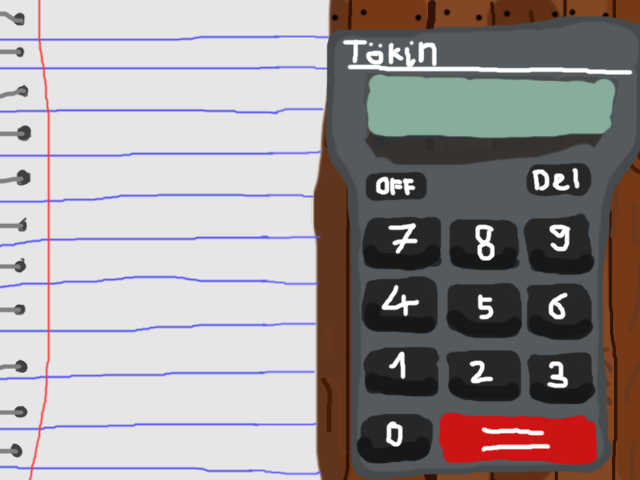
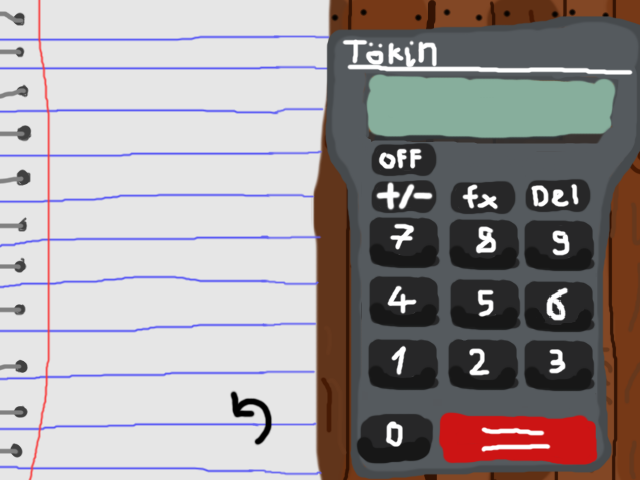
kicseréltem a hátteret rajzoltam minuszt a számológép kijelzőn írja ki a  függvényt hibapontszámláló longra kicserélve a generátor túlcsordulható intjei + amik használják rajzoltam egy nyilat xd

Changed region(s): [[0.5625, 0.2812, 0.9375, 0.8438], [0.3438, 0.8125, 0.4375, 0.9375]]

diff --git a/core/src/hu/tokingame/elso/SzamologepActor.java b/core/src/hu/tokingame/elso/SzamologepActor.java
@@ -17,8 +17,10 @@ public class SzamologepActor extends Group {
     public MyLabel display;
     private MyLabel fx;
     private SzamologepActor szamologepActor;
-    private java.lang.String jo = "PORFIKT";
-    private java.lang.String rosz = "NEM";
+    private java.lang.String jo = "HELYES"; //amit kiír ha helyes a válasz
+    private java.lang.String rosz = "ERROR"; // ha rossz
+    private int maxhibak = 5; // hányszor hibázhat
+    private int hibak = 0; // hányszor hibázott
 
     public SzamologepActor()
     {
@@ -31,7 +33,7 @@ public class SzamologepActor extends Group {
                     @Override
                     public void clicked(InputEvent event, float x, float y) {
                         super.clicked(event, x, y);
-                        display.setText(display.getText() + "0");
+                        if(!(display.getText().toString().equals(rosz) || display.getText().toString().equals(jo) || display.getText().toString().equals(kepletString().toString()))) display.setText(display.getText() + "0");
                         System.out.println("0");
                     }
 
@@ -47,7 +49,7 @@ public class SzamologepActor extends Group {
                     @Override
                     public void clicked(InputEvent event, float x, float y) {
                         super.clicked(event, x, y);
-                        display.setText(display.getText() + "1");
+                        if(!(display.getText().toString().equals(rosz) || display.getText().toString().equals(jo) || display.getText().toString().equals(kepletString().toString()))) display.setText(display.getText() + "1");
                         System.out.println("1");
                     }
 
@@ -63,7 +65,7 @@ public class SzamologepActor extends Group {
                     @Override
                     public void clicked(InputEvent event, float x, float y) {
                         super.clicked(event, x, y);
-                        display.setText(display.getText() + "2");
+                        if(!(display.getText().toString().equals(rosz) || display.getText().toString().equals(jo) || display.getText().toString().equals(kepletString().toString()))) display.setText(display.getText() + "2");
                         System.out.println("2");
                     }
 
@@ -78,7 +80,7 @@ public class SzamologepActor extends Group {
                     @Override
                     public void clicked(InputEvent event, float x, float y) {
                         super.clicked(event, x, y);
-                        display.setText(display.getText() + "3");
+                        if(!(display.getText().toString().equals(rosz) || display.getText().toString().equals(jo) || display.getText().toString().equals(kepletString().toString()))) display.setText(display.getText() + "3");
                         System.out.println("3");
                     }
 
@@ -94,7 +96,7 @@ public class SzamologepActor extends Group {
                     @Override
                     public void clicked(InputEvent event, float x, float y) {
                         super.clicked(event, x, y);
-                        display.setText(display.getText() + "4");
+                        if(!(display.getText().toString().equals(rosz) || display.getText().toString().equals(jo) || display.getText().toString().equals(kepletString().toString()))) display.setText(display.getText() + "4");
                         System.out.println("4");
                     }
 
@@ -110,7 +112,7 @@ public class SzamologepActor extends Group {
                     @Override
                     public void clicked(InputEvent event, float x, float y) {
                         super.clicked(event, x, y);
-                        display.setText(display.getText() + "5");
+                        if(!(display.getText().toString().equals(rosz) || display.getText().toString().equals(jo) || display.getText().toString().equals(kepletString().toString()))) display.setText(display.getText() + "5");
                         System.out.println("5");
                     }
 
@@ -126,7 +128,7 @@ public class SzamologepActor extends Group {
                     @Override
                     public void clicked(InputEvent event, float x, float y) {
                         super.clicked(event, x, y);
-                        display.setText(display.getText() + "6");
+                        if(!(display.getText().toString().equals(rosz) || display.getText().toString().equals(jo) || display.getText().toString().equals(kepletString().toString()))) display.setText(display.getText() + "6");
                         System.out.println("6");
                     }
 
@@ -142,7 +144,7 @@ public class SzamologepActor extends Group {
                     @Override
                     public void clicked(InputEvent event, float x, float y) {
                         super.clicked(event, x, y);
-                        display.setText(display.getText() + "7");
+                        if(!(display.getText().toString().equals(rosz) || display.getText().toString().equals(jo) || display.getText().toString().equals(kepletString().toString()))) display.setText(display.getText() + "7");
                         System.out.println("7");
                     }
 
@@ -158,7 +160,7 @@ public class SzamologepActor extends Group {
                     @Override
                     public void clicked(InputEvent event, float x, float y) {
                         super.clicked(event, x, y);
-                        display.setText(display.getText() + "8");
+                        if(!(display.getText().toString().equals(rosz) || display.getText().toString().equals(jo) || display.getText().toString().equals(kepletString().toString()))) display.setText(display.getText() + "8");
                         System.out.println("8");
                     }
 
@@ -174,7 +176,7 @@ public class SzamologepActor extends Group {
                     @Override
                     public void clicked(InputEvent event, float x, float y) {
                         super.clicked(event, x, y);
-                        display.setText(display.getText() + "9");
+                        if(!(display.getText().toString().equals(rosz) || display.getText().toString().equals(jo) || display.getText().toString().equals(kepletString().toString()))) display.setText(display.getText() + "9");
                         System.out.println("9");
                     }
 
@@ -191,7 +193,7 @@ public class SzamologepActor extends Group {
                     public void clicked(InputEvent event, float x, float y) {
                         super.clicked(event, x, y);
                         if (display.getText().length()!= 0){
-                            if(display.getText().toString().equals(rosz)) display.setText("");
+                            if(display.getText().toString().equals(rosz) || display.getText().toString().equals(jo) || display.getText().toString().equals(kepletString().toString())) display.setText("");
                             else display.setText(display.getText().substring(0,display.getText().length()-1));
                             System.out.println("DEL");
                         }
@@ -254,9 +256,7 @@ public class SzamologepActor extends Group {
                     @Override
                     public void clicked(InputEvent event, float x, float y) {
                         super.clicked(event, x, y);
-                        szamologepActor.addActor (fx = new MyLabel(kepletString(),MyLabel.style3));
-
-                        fx.setPosition(100, 23);
+                        display.setText(kepletString().toString().toString().toString().toString()); // vicces
                         System.out.println("FX");
                     }
 
@@ -271,7 +271,7 @@ public class SzamologepActor extends Group {
         display.setFontScale(2);
         display.setColor(0,0,0,1);
         display.debug();
-        addActor(display);// kijelzo aktora
+        addActor(display);// számológép kijelző aktora
 
 
         setSize(1280, 720);
@@ -292,12 +292,15 @@ public class SzamologepActor extends Group {
 
     public void osszevet(int bevitt){
 
-        int u = Generator.getSorozatElemek().get(5);
+        long u = Generator.getSorozatElemek().get(5);
         if(bevitt == u){
             display.setText(jo);
         }
         else{
             display.setText(rosz);
+            hibak++;
+            NotepadActor.setHibaszaml(hibak +"/"+ maxhibak);
+            if(hibak == maxhibak) System.out.println("Elfogyott a lehetőség"); // IDE MÉG KELL VALAMI HA ELFOGY A LEHETŐSÉG AKKOR CSINÁLJON MONDJUK SYSTEM.EXIT(0) XD HUEHUE
         }
     }
 

diff --git a/core/src/hu/tokingame/elso/Generator.java b/core/src/hu/tokingame/elso/Generator.java
@@ -10,7 +10,7 @@ public class Generator {
 
     private static int vel(int a, int b) {return (int)(Math.random()*(b-a+1)+a);}
 
-    private static Vector<Integer> szamok = new Vector<Integer>();
+    private static Vector<Long> szamok = new Vector<Long>();
     private static Vector<Muvelet> muveletek = new Vector<Muvelet>();
     private static int kezdoertek=0;
     private static int maxSz = 1;
@@ -18,14 +18,14 @@ public class Generator {
     private static int maxM = 3;
     private static int minM = 1;
     private static int elemSzam = 6;
-    private static Vector<Integer> SorozatElemek = new Vector<Integer>();
+    private static Vector<Long> SorozatElemek = new Vector<Long>();
     private static Vector Fuggveny = new Vector();
 
     private static void generalas(){
         int mdb=vel(minM, maxM);
         kezdoertek = vel(1,9);
         Fuggveny.add(kezdoertek);
-        szamok.add(0);
+        szamok.add((long)0);
         for (int i = 0; i < mdb; i++) {
             /*int b=vel(1,3);
             if (muveletek.get(i) == Muvelet.kivonas){
@@ -33,7 +33,7 @@ public class Generator {
                 szamok.set(0, a);
             }*/
             int szdb = vel(minSz, maxSz);
-            int sz = 0;
+            long sz = 0;
             for (int j = 0; j<szdb; j++){
                 sz += vel(1*(int)Math.pow(10, j), 9*(int)Math.pow(10, j));
             }
@@ -51,9 +51,9 @@ public class Generator {
     }
     
     
-    private static int szamit(int kezdoertek) {
+    private static long szamit(long kezdoertek) {
         Vector<Muvelet> ujmuveletek = (Vector<Muvelet>)muveletek.clone();
-        Vector<Integer> ujszamok = (Vector<Integer>)szamok.clone();
+        Vector<Long> ujszamok = (Vector<Long>)szamok.clone();
         ujszamok.set(0,kezdoertek);
         teszt(ujmuveletek, ujszamok);
         int i = 0;
@@ -83,7 +83,7 @@ public class Generator {
         return ujszamok.get(0);
     }
     
-    private static void teszt(Vector<Muvelet> ujmuvelet, Vector<Integer> ujszam )
+    private static void teszt(Vector<Muvelet> ujmuvelet, Vector<Long> ujszam )
     {
         System.out.print(ujszam.get(0));
         for(int i=1; i<ujszam.size(); i++)
@@ -109,7 +109,7 @@ public class Generator {
     }
 
     
-    public static int getSorozatElem(int elemszam) {
+    public static long getSorozatElem(int elemszam) {
 
         if (elemszam == 0)
         {
@@ -117,7 +117,7 @@ public class Generator {
         }
         else
         {
-            int k = kezdoertek;
+            long k = kezdoertek;
             for(int i = 0; i<elemszam; i++)
             {
                 k = szamit(k);
@@ -125,7 +125,7 @@ public class Generator {
             return k;
         }
     }
-    public static Vector<Integer> getSorozatElemek(){
+    public static Vector<Long> getSorozatElemek(){
         return SorozatElemek;
     } // kiadja vektorban a legenerált sorozat végeredményeit
     public static Vector getFuggveny(){

diff --git a/core/src/hu/tokingame/elso/GameStage.java b/core/src/hu/tokingame/elso/GameStage.java
@@ -51,7 +51,9 @@ public class GameStage extends MyStage {
         notepadActor.setPosition(0,0);
 
         SzamologepActor szamologepActor;
-        addActor(szamologepActor = new SzamologepActor());// szamolo gep gombok.
+        addActor(szamologepActor = new SzamologepActor(){
+
+        });// szamolo gep gombok.
         szamologepActor.setPosition(0,0);
 
         addActor(new MyActorInit() {
@@ -62,6 +64,7 @@ public class GameStage extends MyStage {
                 addListener(new ClickListener(){
                     @Override
                     public void clicked(InputEvent event, float x, float y) {
+
                         super.clicked(event, x, y);
                         game.setScreen(new GameScreen(game));
                     }

diff --git a/core/src/hu/tokingame/elso/NotepadActor.java b/core/src/hu/tokingame/elso/NotepadActor.java
@@ -17,6 +17,7 @@ public class NotepadActor extends Group {
     public NotepadActor notepadActor;
     public Vector<MyLabel> notepadActors;
     public Vector sorozat;
+    private static MyLabel hibaszaml;
 
     public NotepadActor() {
         generate();
@@ -41,8 +42,12 @@ public class NotepadActor extends Group {
         notepadActors.get(5).setText("?");
 
         setSize(1280, 720);
+
+        hibaszaml = new MyLabel("0/5", MyLabel.style3);
+        addActor(hibaszaml);
     }
     public void generate(){
         Generator.Generat();
     }
+    public static void setHibaszaml(String s){hibaszaml.setText(s);}
 }
